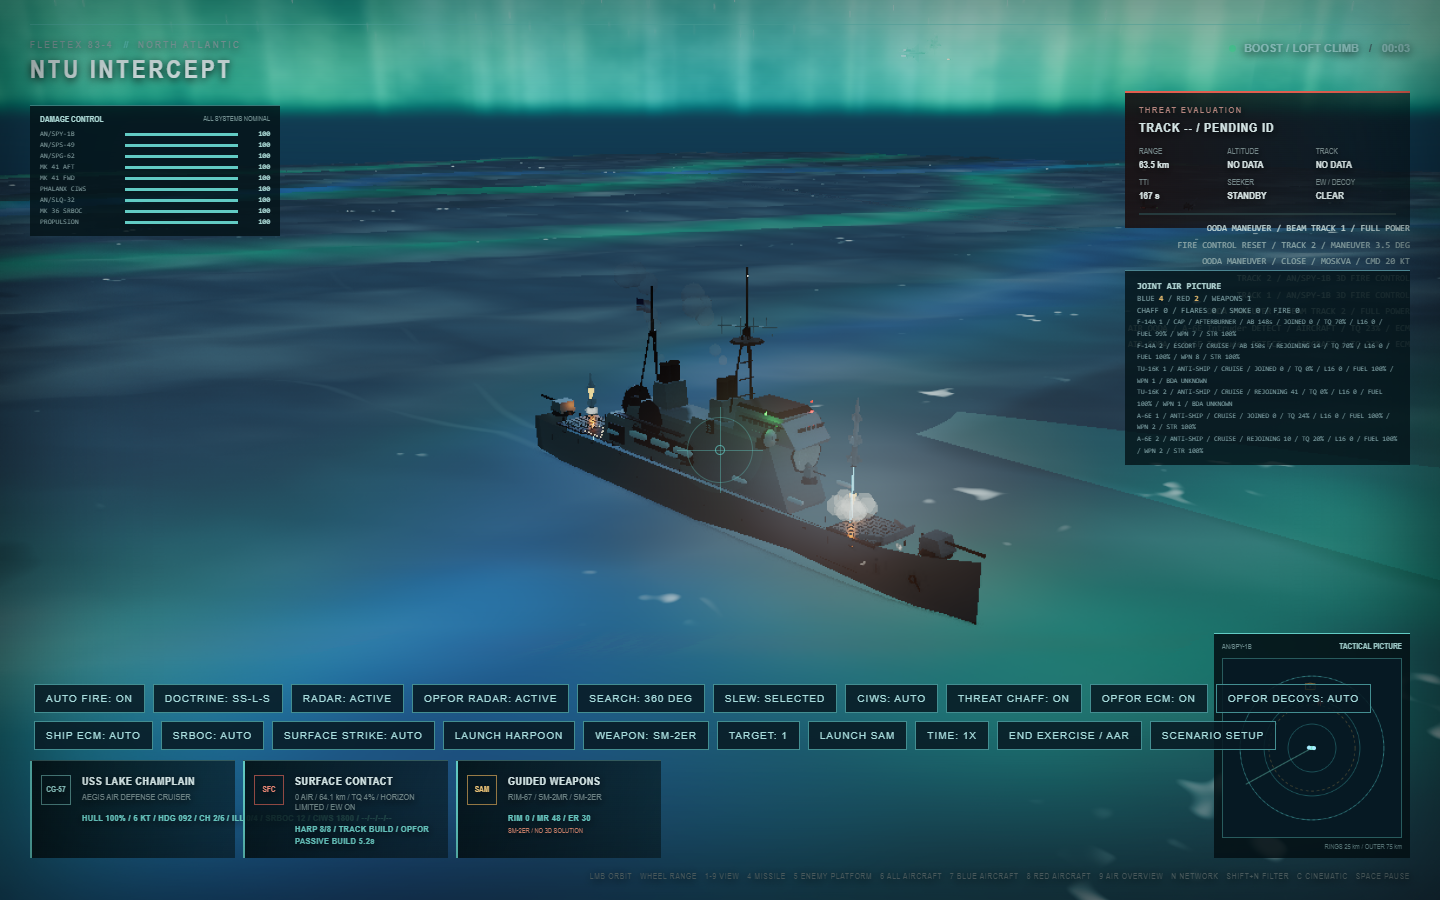
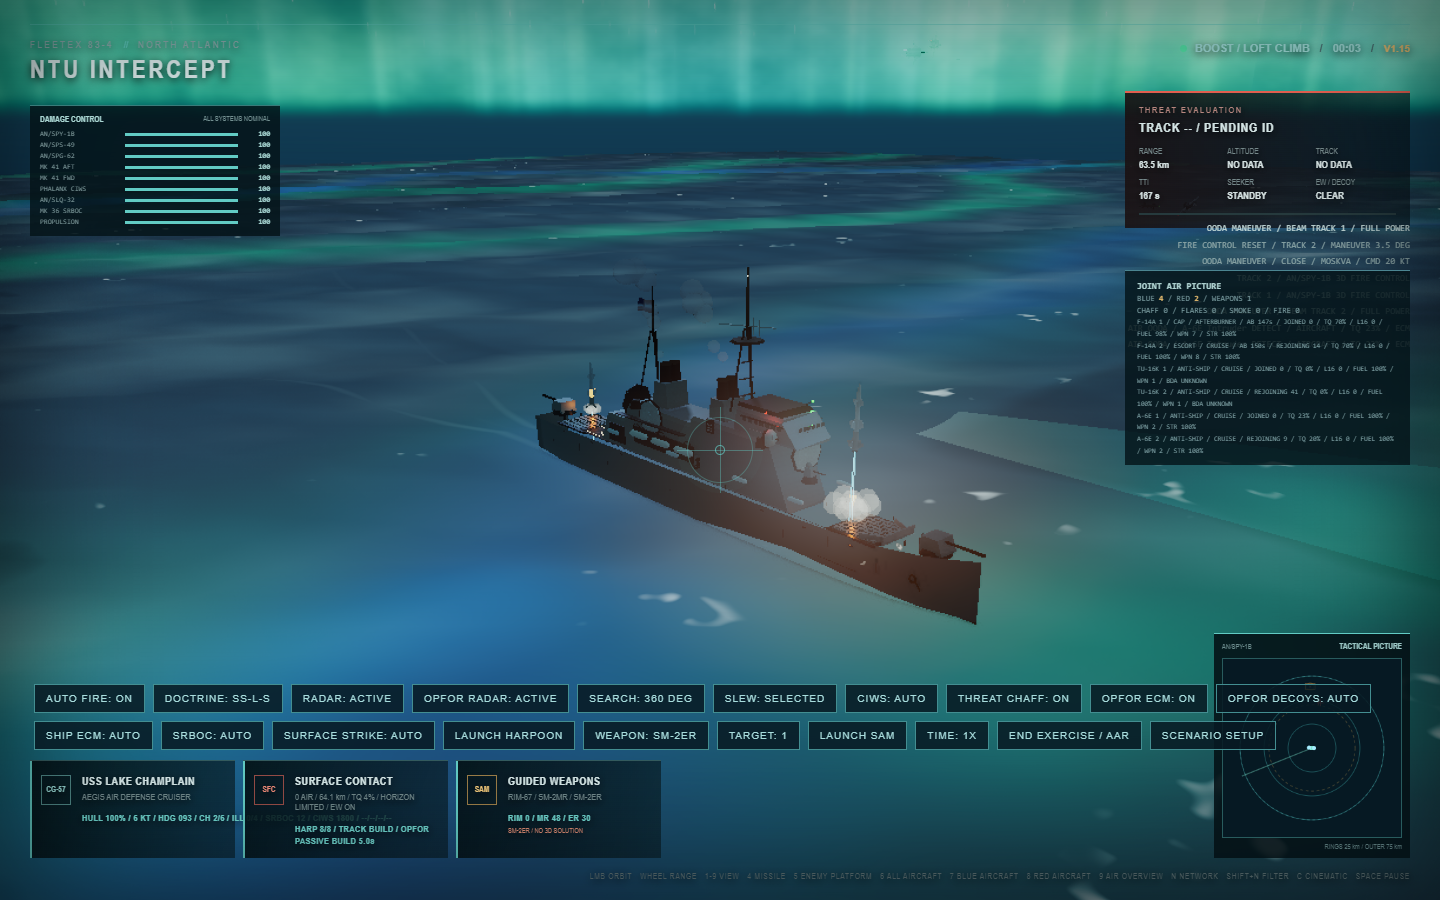
chore(release): prepare V1.15

diff --git a/src/air/model-assets/model-kit.ts b/src/air/model-assets/model-kit.ts
@@ -6,6 +6,7 @@ import { registerAssetDetailLod } from "../../visual/asset-detail-lod.js";
 // aircraft uses the same 2 m/unit display scale so their relative sizes stay
 // physically meaningful (especially Tu-16K and Tu-126 versus fighters).
 export const AIR_MODEL_METERS_PER_UNIT = 2;
+export const AIRCRAFT_MODEL_ASSET_REVISION = "aircraft-ultra-r2";
 export const metersToModel = (meters: number) => meters / AIR_MODEL_METERS_PER_UNIT;
 
 export type Vec3Tuple = readonly [number, number, number];
@@ -478,6 +479,7 @@ export function finishAircraftModel(
   group.userData.realLengthMeters = options.realLengthMeters;
   group.userData.realWingspanMeters = options.realWingspanMeters;
   group.userData.modelMetersPerUnit = AIR_MODEL_METERS_PER_UNIT;
+  group.userData.modelAssetVersion = AIRCRAFT_MODEL_ASSET_REVISION;
   group.userData.detailTags = [...options.detailTags];
   const tierMembers = group.userData.modelTierMembers as AircraftTierMembers;
   registerAssetDetailLod(group, {

diff --git a/index.html b/index.html
@@ -15,7 +15,7 @@
     <section class="hud">
       <header class="masthead">
         <div><div class="brand">FLEETEX 83-4 <span>//</span> NORTH ATLANTIC</div><div class="title">NTU INTERCEPT</div></div>
-        <div class="status"><span class="dot"></span><span id="phase">TRACKING</span><span class="sep">/</span><span id="clock">00:00</span><span class="sep">/</span><span class="version" id="appVersion">v1.1.0</span></div>
+        <div class="status"><span class="dot"></span><span id="phase">TRACKING</span><span class="sep">/</span><span id="clock">00:00</span><span class="sep">/</span><span class="version" id="appVersion">V1.15</span></div>
       </header>
       <aside class="threat-panel">
         <div class="panel-kicker">THREAT EVALUATION</div><div class="threat-name" id="threatName">TRACK 01 / PENDING ID</div>

diff --git a/src/air/models.ts b/src/air/models.ts
@@ -1,4 +1,4 @@
-// Compatibility facade. Each v1.1 airframe owns an independent model module;
+// Compatibility facade. Each airframe owns an independent model module;
 // callers keep the historical import path while platform-specific geometry
 // and LOD policy remain out of the simulation/runtime layer.
 export { createA6Model, createF14Model } from "./model-assets/us/index.js";

diff --git a/src/air/aew/model-assets/tu126.ts b/src/air/aew/model-assets/tu126.ts
@@ -655,6 +655,5 @@ export function createTu126Model() {
   finished.userData.rotodomeDiameter = DIMENSIONS.modelRotodomeDiameter;
   finished.userData.rotodomeThickness = DIMENSIONS.modelRotodomeThickness;
   finished.userData.rotodomeSupportHeight = DIMENSIONS.modelRotodomeSupportHeight;
-  finished.userData.modelAssetVersion = "v1.1-ultra";
   return finished;
 }

diff --git a/src/air/model-assets/soviet/mig29a.ts b/src/air/model-assets/soviet/mig29a.ts
@@ -648,7 +648,6 @@ export function createMig29Model() {
     lodNear: 82,
     lodMedium: 235,
   });
-  finished.userData.modelAssetVersion = "v1.1-ultra";
   finished.userData.referenceDimensions = dimensions;
   return finished;
 }

diff --git a/src/air/model-assets/soviet/tu16k.ts b/src/air/model-assets/soviet/tu16k.ts
@@ -565,7 +565,6 @@ export function createTu16Model() {
     lodNear: 108,
     lodMedium: 310,
   });
-  finished.userData.modelAssetVersion = "v1.1-ultra";
   finished.userData.referenceDimensions = dimensions;
   return finished;
 }

diff --git a/src/air/model-assets/us/f14a.ts b/src/air/model-assets/us/f14a.ts
@@ -560,7 +560,6 @@ export function createF14Model() {
     lodNear: 88,
     lodMedium: 250,
   });
-  finished.userData.modelAssetVersion = "v1.1-ultra";
   finished.userData.referenceDimensions = dimensions;
   return finished;
 }

diff --git a/src/air/model-assets/us/a6e.ts b/src/air/model-assets/us/a6e.ts
@@ -651,7 +651,6 @@ export function createA6Model() {
     lodNear: 84,
     lodMedium: 240,
   });
-  finished.userData.modelAssetVersion = "v1.1-ultra";
   finished.userData.referenceDimensions = dimensions;
   return finished;
 }

diff --git a/src/air/aew/model-assets/e2c.ts b/src/air/aew/model-assets/e2c.ts
@@ -570,6 +570,5 @@ export function createE2cModel() {
       "carrier-aew",
     ],
   });
-  finished.userData.modelAssetVersion = "v1.1-ultra";
   return finished;
 }

diff --git a/CHANGELOG.md b/CHANGELOG.md
@@ -1,6 +1,49 @@
 # Changelog
 
-> Documentation snapshot: v1.1.0 · 2026-07-26. Later releases may revise these notes.
+> Documentation snapshot: v1.15.0 · 2026-07-29. Later releases may revise these notes.
+
+## 1.15.0 - Unreleased
+
+### Changed
+
+- Completed a second-pass visual rebuild of the procedural F-14A, A-6E, MiG-29A, Tu-16K, E-2C, and Tu-126 assets while preserving the shared 2 metres-per-unit display scale and independent Ultra, High, and Low geometry.
+- Corrected the shared loft-fuselage triangle winding so exterior normals face outward across all rebuilt aircraft.
+- Refined common jet nozzles with circumferential petals, a positive rim, and a recessed hot-section face; corrected the A-6E stowed arresting hook and made the Tu-16K tail cannon readable without changing the reference-length envelope.
+- Replaced F-14-specific runtime and gallery sweep constants with a model-declared 20°–68° variable-geometry contract.
+- Made MiG-29A and Tu-16K gameplay hardpoints consume the same platform-owned station definitions as their visual models, reducing duplicated attachment coordinates.
+- Recalibrated mounted stores, markings, lights, engine details, propellers, and rotodomes across the six aircraft and all three LOD tiers.
+
+### Added
+
+- A 63-image serial visual gate covering five Ultra inspection angles, High/Low silhouette views, F-14 sweep states, and armed underside/rear-quarter views. The gallery uses dedicated underside fill so pylon contact and lower-surface normals remain inspectable.
+- Stronger structural checks for outward normals, model-declared sweep limits, fixed-station ownership, mount contact, tier dimensions, and AEW animation assemblies.
+
+### Release Boundaries
+
+- V1.15 remains a procedural aircraft asset, LOD, hardpoint-alignment, and validation update; it does not replace the flight AI, missile guidance, lethality, or ship-defense architecture.
+- Historical platform and weapon names remain in use while performance values stay game-scaled.
+- Static gallery evidence demonstrates asset construction and attachment quality, not air-combat probability or complete joint-scenario outcomes.
+
+### Verification Evidence
+
+- `git diff --check`
+- `npm run verify:docs`
+- `npx tsc --noEmit`
+- `npm run build`
+- `npm run verify:air-models`
+- `npm run verify:aew`
+- `npm run verify:air-weapon-models`
+- `npm run verify:asset-detail-lod`
+- `npm run verify:air-hardpoints`
+- `npm run verify:air-visuals`
+- `npm run verify:ultra-aurora`
+- `npm run verify:aew-runtime`
+- `npm run verify:air-camera`
+- `npm run verify:aircraft-sam-damage`
+- `npm run verify:joint-air`
+- `npm run verify:mig29-combat`
+- `npm run verify:soviet-maritime-runtime`
+- `npm run capture:aircraft-lod-gallery`
 
 ## 1.1.0 - 2026-07-26
 
@@ -12,15 +55,12 @@
 - Added reference-dimension metadata and model-specific silhouettes: F-14 variable-sweep wings and fixed glove/pallet mounts; A-6 TRAM and five visible pylons; MiG-29 LERX, engine channels, IRST, and three pylon classes; Tu-16 glazed nose, integrated wing-root nacelles, tail turret, and KSR carrier beams.
 - Rebuilt E-2C and Tu-126 AEW geometry with animated rotodomes and propellers. The E-2C uses the NTU-era four-blade/four-fin configuration; the Tu-126 uses the larger Liana installation and paired contra-rotating rotor sets on each of four NK-12 engines.
 - Aligned mounted AIM-54A/AIM-7F/AIM-9L, AGM-84A, R-27R/R-73, and KSR-5 visuals with platform-owned attachment anchors while preserving entity, ammunition, and release ownership.
-- Corrected the shared loft-fuselage triangle winding so exterior normals face outward across all rebuilt aircraft.
-- Refined common jet nozzles with circumferential petals, a positive rim, and a recessed hot-section face; corrected the A-6E stowed arresting hook and made the Tu-16K tail cannon readable without changing the reference-length envelope.
 - Allowed AEW controllers to issue degraded, cue-only intercept vectors against measured unidentified airborne contacts. Classified aircraft remain preferred; unknown contacts receive lower command quality and higher uncertainty, and no target truth or weapon authority is exposed.
 
 ### Added
 
 - An isolated aircraft asset gallery and a serial capture workflow for Ultra, High, Low, variable-wing, and armed hardpoint inspection.
 - Structural verification for strict triangle-count reduction, independent geometry ownership, per-tier dimension tolerances, F-14 fixed-mount parentage, surface-marking tier ownership, and AEW propeller/rotodome animation.
-- A 63-image serial visual gate covering five Ultra inspection angles, High/Low silhouette views, F-14 sweep states, and armed underside/rear-quarter views. The gallery uses dedicated underside fill so pylon contact and lower-surface normals remain inspectable.
 
 ### Release Boundaries
 
@@ -36,8 +76,6 @@
 - `npm run verify:aew`
 - `npm run verify:air-weapon-models`
 - `npm run verify:air-hardpoints`
-- `npm run verify:air-visuals`
-- `npm run verify:aircraft-sam-damage`
 - `npm run verify:joint-air`
 - `npm run verify:aew-runtime`
 - `npm run verify:mig29-combat`

diff --git a/README_EN.md b/README_EN.md
@@ -2,8 +2,8 @@
 
 **A 3D Cold War naval and joint-air combat sandbox.** The observable chain runs from radar measurements, track quality, datalinks, and fire-control authorization through physical launchers, phased guidance, electronic warfare, damage, and AAR.
 
-> Documentation snapshot: v1.1.0 · 2026-07-26<br>
-> This page describes the v1.1.0 implementation; later versions may change mechanisms, visuals, and unit data.
+> Documentation snapshot: v1.15.0 · 2026-07-29<br>
+> This page describes the v1.15.0 implementation; later versions may change mechanisms, visuals, and unit data.
 
 ## Live Demo
 
@@ -11,7 +11,7 @@
 
 No installation is required. Desktop Edge or Chrome is recommended. Initial asset and shader compilation may take several seconds. Use High quality on limited hardware; WebGPU Ultra, compute clouds, and the FFT ocean are experimental high-load features.
 
-[中文](README.md) · [English Wiki](wiki/en/README.md) · [Chinese Wiki](wiki/README.md) · [v1.1.0 Release](https://github.com/Sekai6/game-coldwar-intercept/releases/tag/v1.1.0)
+[中文](README.md) · [English Wiki](wiki/en/README.md) · [Chinese Wiki](wiki/README.md) · [V1.15 release notes](CHANGELOG.md)
 
 ![USS Lake Champlain CG-57 Ultra aurora combat validation](readme-cg57-ultra-aurora.png)
 
@@ -34,9 +34,9 @@ Its three main strengths are observable sensor uncertainty, non-bypassable per-s
 
 [Simulation manual](docs/zh/SIMULATION.md) | [Architecture](ARCHITECTURE.md) | [Operations](docs/zh/OPERATIONS.md) | [Verification](docs/zh/VERIFICATION.md) | [English Wiki](wiki/en/README.md)
 
-## v1.1.0 Air-Asset Upgrade
+## v1.15.0 Air-Asset Refinement
 
-v1.1.0 rebuilds the procedural F-14A, A-6E, MiG-29A, Tu-16K, E-2C, and Tu-126 assets. Every aircraft now uses the same **visual relative scale of 2 metres per unit**, preserving the size relationship between fighters, bombers, and large AEW aircraft. Each type has separately constructed Ultra, High, and Low geometry. Ultra can step down by viewing distance, while High and Low quality select their corresponding assets instead of reusing one high-detail mesh with decorative parts hidden.
+v1.15.0 applies a second refinement pass to the procedural F-14A, A-6E, MiG-29A, Tu-16K, E-2C, and Tu-126 assets introduced in v1.1.0. Every aircraft continues to use the same **visual relative scale of 2 metres per unit**, preserving the size relationship between fighters, bombers, and large AEW aircraft. Each type has separately constructed Ultra, High, and Low geometry. Ultra can step down by viewing distance, while High and Low quality select their corresponding assets instead of reusing one high-detail mesh with decorative parts hidden.
 
 - The F-14A sweeps its wings from 20° to 68°; glove pylons and fuselage pallets stay in the fixed airframe coordinate system.
 - The A-6E includes the side-by-side cockpit, D-shaped shoulder intakes, TRAM turret, and five visible pylons; two current strike anchors carry AGM-84A stores.
@@ -136,7 +136,7 @@ scripts/          logic, browser, screenshot, and regression verification
 
 ## Project Status
 
-The repository is released as `v1.1.0`. Feature boundaries and verification evidence are listed in [CHANGELOG.md](CHANGELOG.md).
+The current version line is `v1.15.0`, displayed as `V1.15` in the web HUD. Feature boundaries and verification evidence are listed in [CHANGELOG.md](CHANGELOG.md).
 
 ## License
 

diff --git a/wiki/en/VERSIONING.md b/wiki/en/VERSIONING.md
@@ -1,12 +1,16 @@
 # Wiki Versioning
 
-This version note and the platform catalog target package version `1.1.0`. Mechanic, weapon, and ship pages unaffected by v1.1.0 may retain their latest data snapshot; a page-header version marks its last material update, not feature removal. Values are deterministic game-scaled parameters, not deployment data. Update the data snapshot, `CHANGELOG.md`, and both language pages when fields or mechanisms change.
+This version note and the platform catalog target package version `1.15.0`. Mechanic, weapon, and ship pages unaffected by v1.15.0 may retain their latest data snapshot; a page-header version marks its last material update, not feature removal. Values are deterministic game-scaled parameters, not deployment data. Update the data snapshot, `CHANGELOG.md`, and both language pages when fields or mechanisms change.
 
-## v1.1.0 documentation boundary
+## v1.15.0 documentation boundary
 
-The main v1.1.0 change is the visual rebuild of six procedural air assets. They use one 2 m/unit display scale and separately constructed Ultra, High, and Low geometry. Platform-page model sections describe this asset release; flight, radar, weapon, and AI values remain game-scaled and do not become real-world performance data because the silhouettes are more detailed.
+v1.15.0 applies a second refinement pass to the six procedural air assets: it corrects shared loft-fuselage normals, improves nozzles, the arresting hook, tail guns, markings, lights, and AEW animation, unifies model and runtime station definitions, and moves F-14 wing sweep to a model-declared 20°–68° geometry contract. The six aircraft retain the common 2 m/unit display scale and separately constructed Ultra, High, and Low geometry.
 
-Structural model tests and static captures can establish relative dimensions, independent LOD ownership, identifying features, and store contact. They do not replace joint-scenario regression for flight, combat, damage, or AAR behavior. The v1.0.0 runtime/catalog release must not be described retrospectively as containing the refined v1.1.0 asset set.
+Platform-page model sections describe this asset release; flight, radar, weapon, and AI values remain game-scaled and do not become real-world performance data because the silhouettes are more detailed. Structural model tests and 63 serial static captures can establish relative dimensions, independent LOD ownership, identifying features, and store contact. They do not replace joint-scenario regression for flight, combat, damage, or AAR behavior.
+
+## v1.1.0 historical boundary
+
+v1.1.0 first placed the six aircraft on one 2 m/unit visual scale and introduced independently constructed Ultra, High, and Low geometry. The v1.0.0 runtime/catalog release must not be described retrospectively as containing those refined assets; v1.15.0 is a later refinement and does not rewrite the historical tag.
 
 Stable means part of the standard entity and telemetry loop; Optional requires a scenario/settings switch; Experimental may change output or performance. Unimplemented CEC, carrier operations and towed decoys must remain explicitly marked.
 
